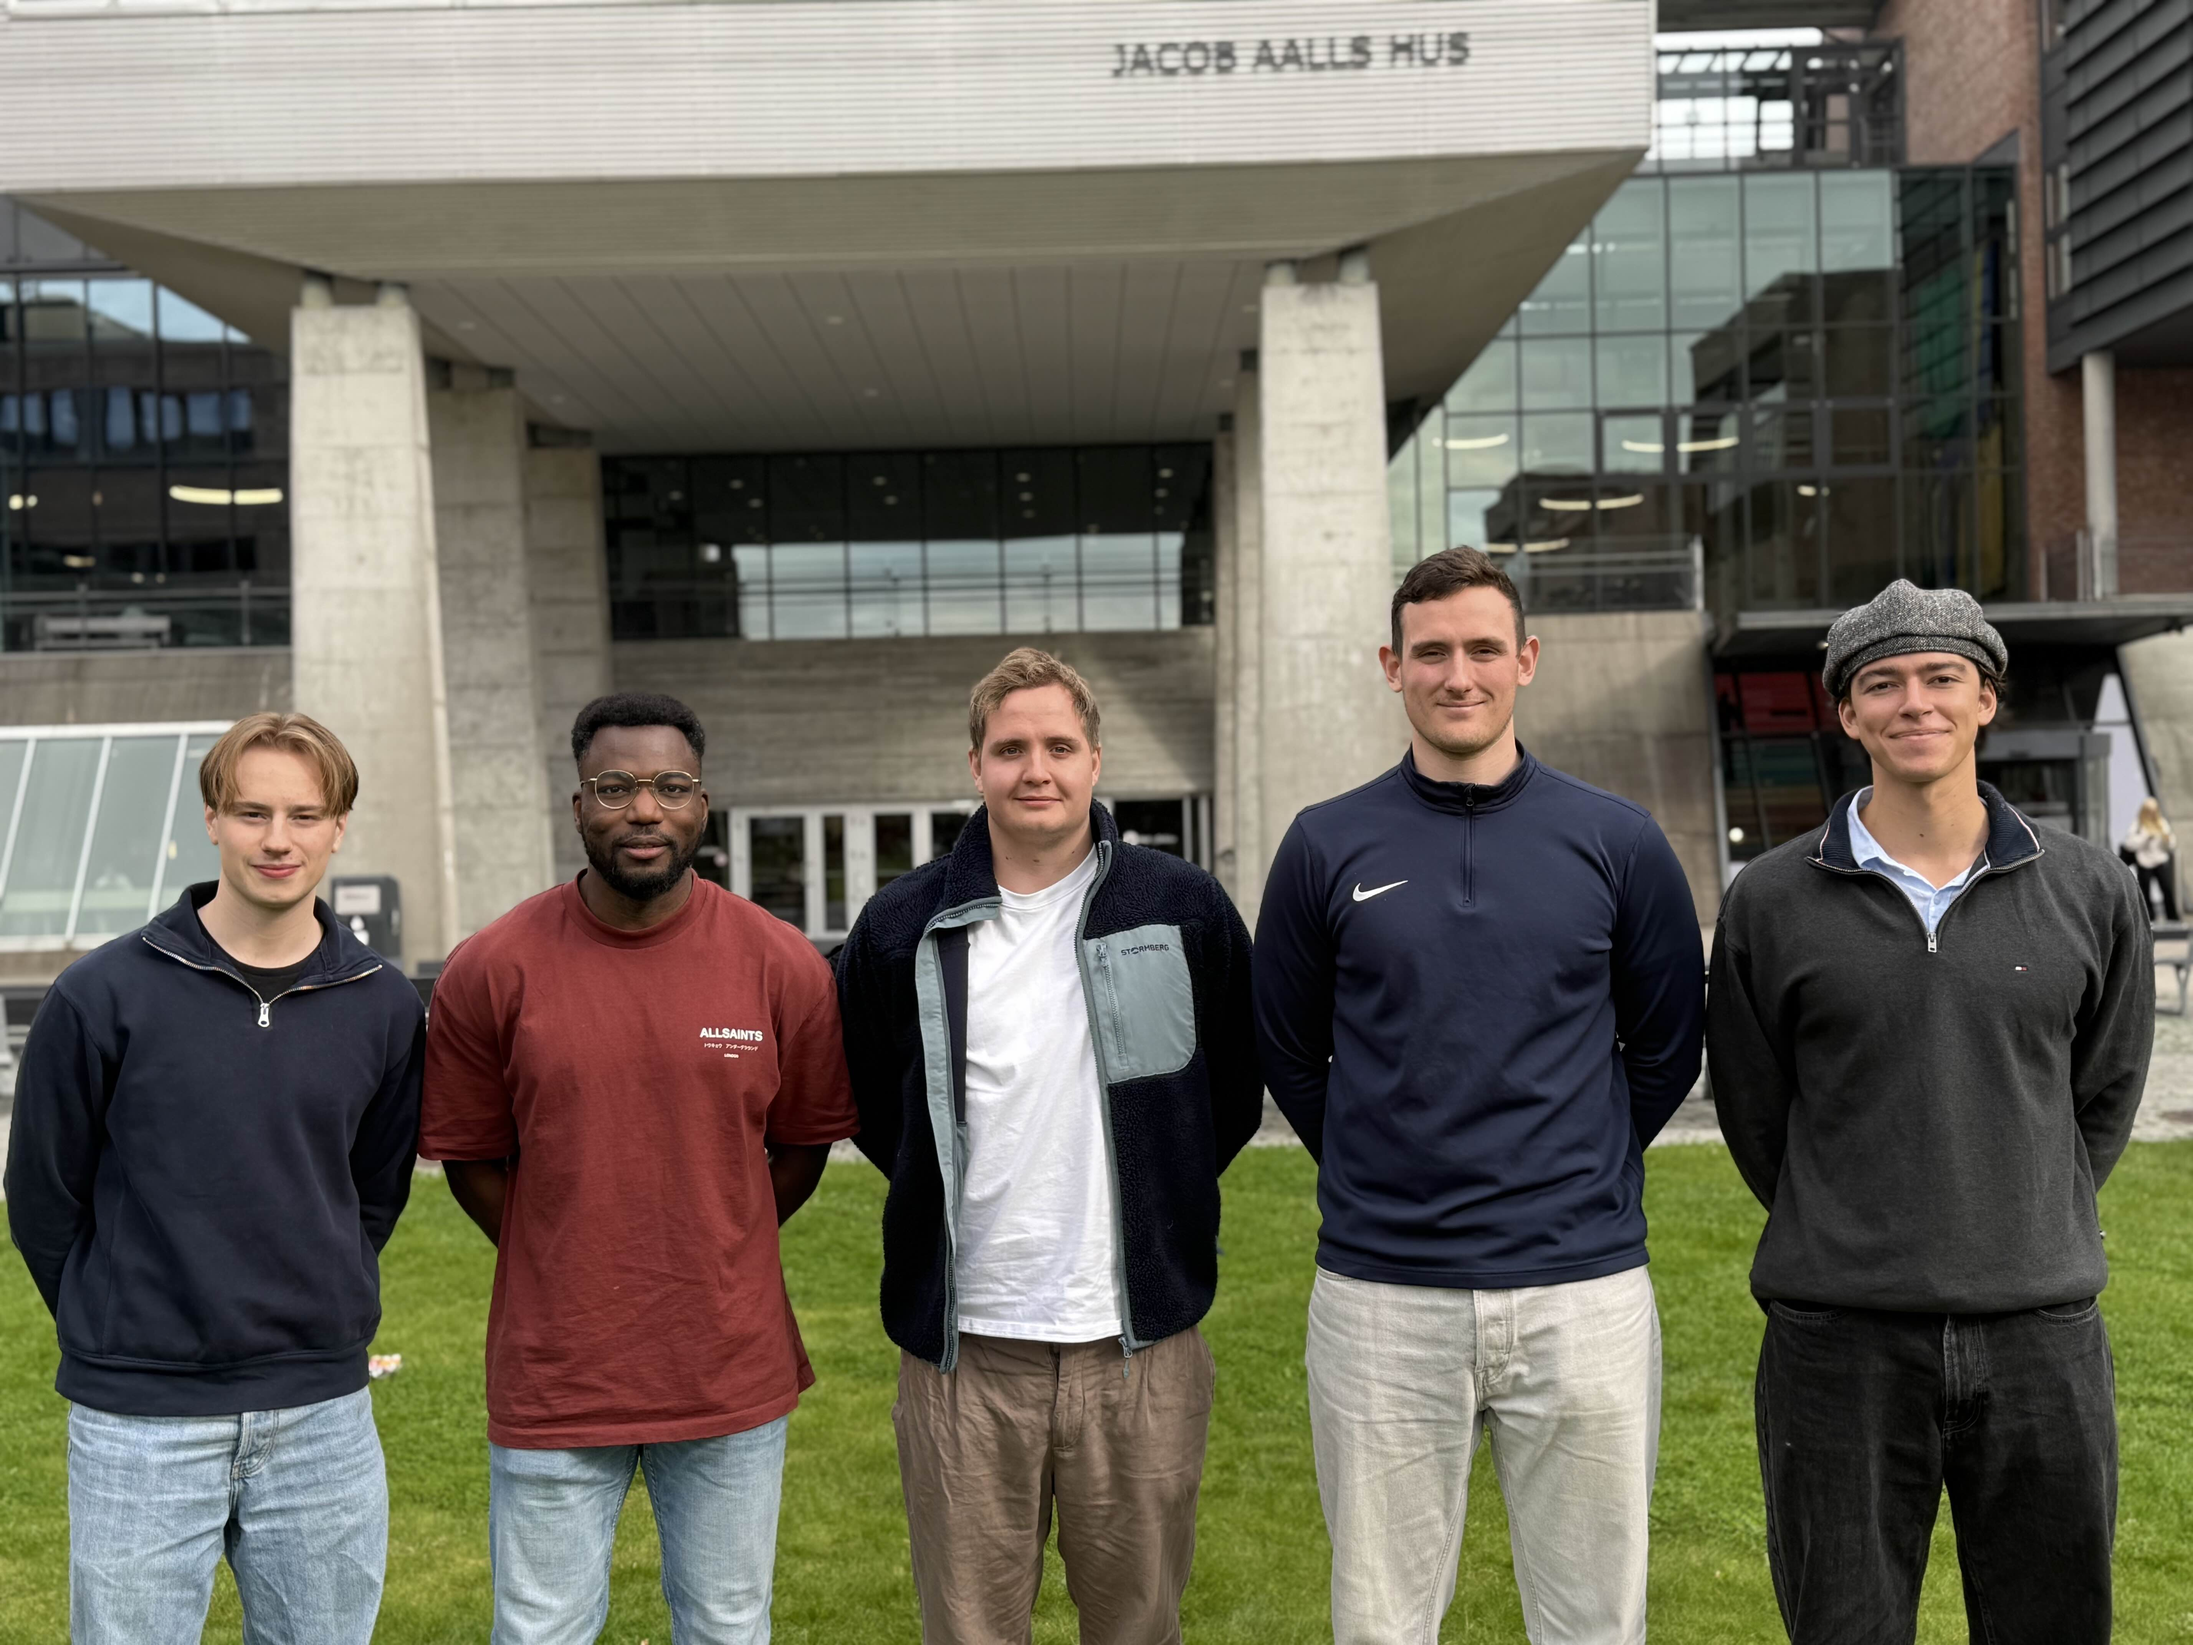
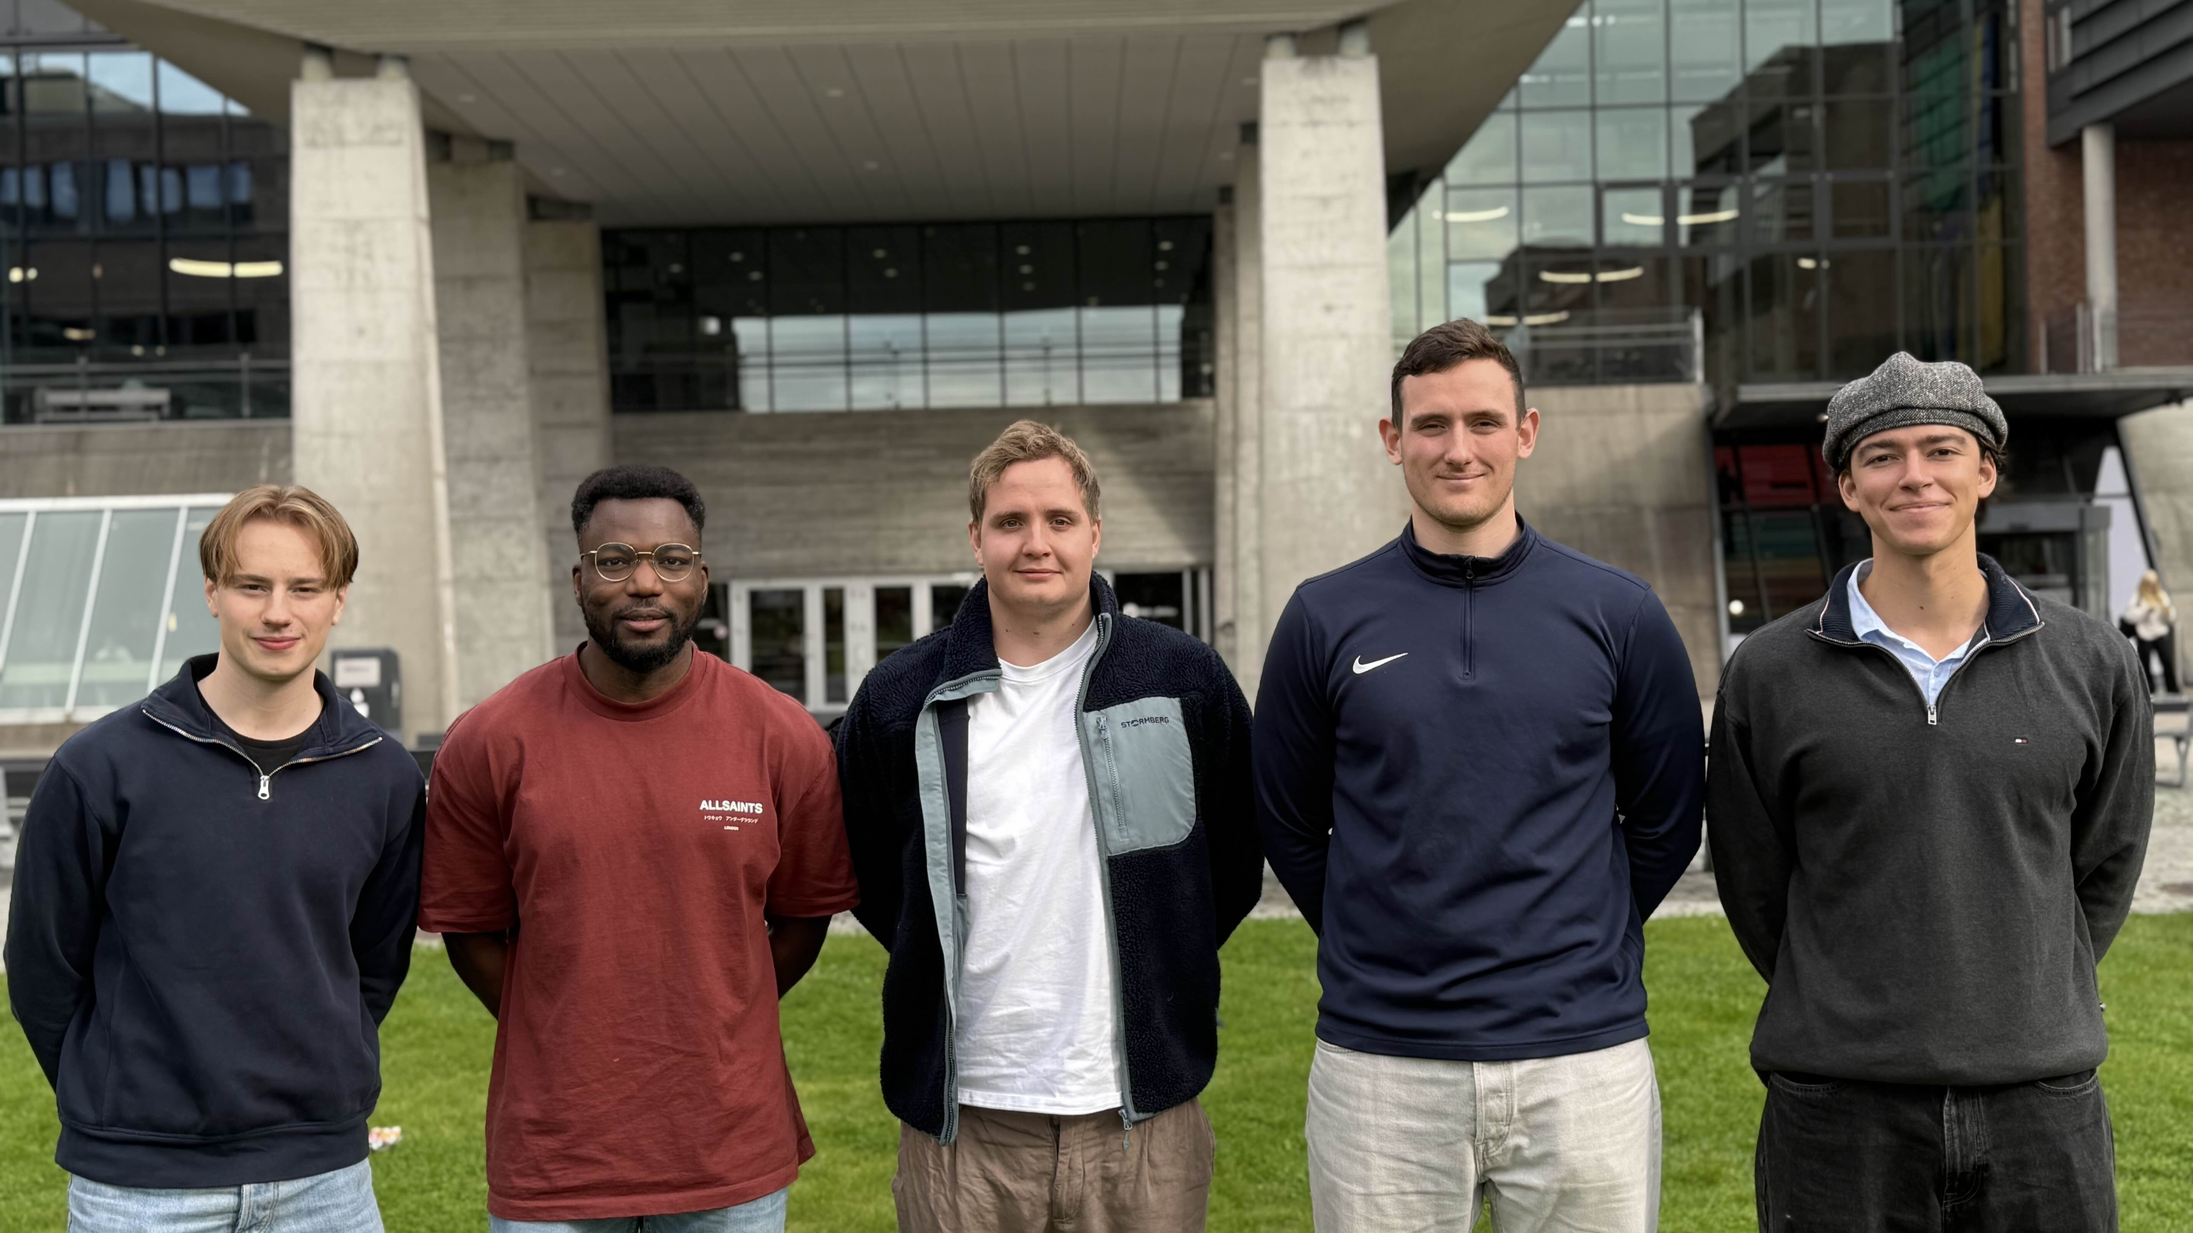
overskrift, bakgrunnsbilde, animasjon og navbar
fikset på ting og tang

diff --git a/docs/index.html b/docs/index.html
@@ -7,6 +7,9 @@
     <link rel="icon" href="image/group-svgrepo-com.svg" type="image/svg+xml" />
     <link rel="stylesheet" href="CSS/site.css"/>
     <link rel="stylesheet" href="CSS/index.css" />
+    <script src="JS/ordAnimasjon.js"></script>
+    <script src="JS/navBar.js"></script>
+    
 </head>
 <body>
 <header></header>
@@ -20,17 +23,14 @@
         <a class="nav-item active" href="#section1">Hjem</a>
         <a class="nav-item" href="#section2">Om oss</a>
         <a class="nav-item" href="#section3">Medlemmer</a>
-        <a class="nav-item" href="Gutta/Contact.html">
-            <img id="phone_symbol" src="image/email_icon.svg" title="Kontakt oss">
-        </a>
+        <a class="nav-item" href="#section4">Prosjekter</a>
+        <a class="nav-item" href="Gutta/Contact.html">Kontakt</a>
     </div>
 </div>
 
 
 <section id=section1>
-    <img title="group_pic" id="group_picture" src="image/gruppe_bilde.jpg" />
         <div class="stor-tekst">
-            <p class="stor-overskrift">VI ER</p>
             <p class="stor-overskrift">GRUPPE 1</p>
         </div>
         
@@ -38,9 +38,17 @@
 
 <section id="section2">
     <div class="overskrifter">
-        <div class="Kreativitet">
+        <div class="ord">
             <h1 class="om-gruppen-overskrift">/Kreativitet.</h1>
             <p>[kreativite:´t] skapende evne eller virksomhet, idérikdom.</p>
+        </div>
+        <div class="ord">
+            <h1 class="om-gruppen-overskrift">/Ambisjon.</h1>
+            <p>[ambiʃo:´n] et mål eller en drøm om hva man ønsker å oppnå.</p>
+        </div>
+        <div class="ord">
+            <h1 class="om-gruppen-overskrift">/Mangfold.</h1>
+            <p>[ma`ŋfål] en stor variasjon eller et sammensatt utvalg av noe.</p>
         </div>
     </div>
     <div class="om-gruppa-del">
@@ -116,8 +124,8 @@
                 <p>Fredrik Schjølberg Husebø</p>
                 <img class="gruppemedlemmer-bilde Mathias-bilde" src="image/freddy.jpg" alt="">
                 <p class="gruppemedlemmer-text-om-hver-person"> Prosjekt leder</p>
-                <p class="gruppemedlemmer-text-om-hver-person">UX-designer</p>
-                <p class="gruppemedlemmer-text-om-hver-person">HTML, CSS, Javascript, PHP, Python</p>
+                <p class="gruppemedlemmer-text-om-hver-person">UX-designer/Frontend</p>
+                <p class="gruppemedlemmer-text-om-hver-person">HTML, CSS, JAVA, PHP, C#, SQL</p>
                 <a href="https://www.linkedin.com/in/fredrik-schj%C3%B8lberg-huseb%C3%B8-7b8407357/">
                     <img class="section3-linkedin"  src="./image/LinkedIn_logo_initials.png.webp" alt="linked in bilde">
                 </a>

diff --git a/docs/CSS/index.css b/docs/CSS/index.css
@@ -26,16 +26,10 @@ section {
   column-width: 100vw;
   background-color: white;
   overflow-y: hidden;
-  /*background-image: url("/docs/image/gruppe_bilde.jpg");*/
-  backgroud-size: 50px 50px;
+  background-image: url('/docs/image/gruppe_bilde.jpg');  
+  background-size: cover;
 }
 
-#group_picture {
-  width: auto;
-  max-width: auto;
-  min-width: auto;
-  height: auto;
-}
 
 .blur {
   height: 2vh;
@@ -57,7 +51,7 @@ section {
 .nav-bar {
   flex: 1;
   display: flex;
-  width: 25vw;
+  width: 32vw;
   justify-content: center;
   align-items: center;
   flex-direction: row;
@@ -76,6 +70,11 @@ section {
   font-family: "Segoe UI";
   border-radius: 100px;
   cursor: pointer;
+}
+
+.nav-item.active {
+  background-color: #e5c70663;
+  color: #e5c806;
 }
 
 .nav-item:hover {
@@ -99,14 +98,15 @@ section {
   font-family: "Work Sans", sans-serif;
   font-weight: 700;
   font-size: 150px;
-  top: 50vh;
+  top: 55vh;
   left: 2vw;
 }
 .stor-overskrift {
   margin-top: -45vh;
   font-size: 110%;
   margin-bottom: 40vh;
-  color: #d5802aff;
+  color: black;
+  background-color: white;
 }
 
 #section2 {
@@ -139,6 +139,7 @@ section {
   font-family: "Work Sans", sans-serif;
   margin: 4%;
   margin-bottom: 0%;
+   overflow: hidden;
 }
 
 .overskrifter h1 {
@@ -147,10 +148,32 @@ section {
   margin: 0;
 }
 
+.ord {
+  position: absolute;
+  top: 2vh;
+  left: 0;
+  opacity: 0;
+  transform: translateX(-100%); 
+  transition: transform 1.0s ease, opacity 1.0s ease;
+  width: 100%;
+}
+
+.ord.show {
+  opacity: 1;
+  transform: translateX(0);
+}
+
+.ord.hide {
+  opacity: 0;
+  transform: translateX(-100%);
+}
+
 .om-gruppa-del {
   margin: 2%;
   margin-top: 0%;
   background-color: white;
+  color: rgb(37, 37, 37);
+  line-height: 1.5;
   border-radius: 20px;
   font-family: "Work Sans", sans-serif;
   flex: 3;
@@ -334,6 +357,12 @@ section {
   background-color: white;
   height: 100%;
   border-radius: 20px;
+  transition: transform 1s ease, clip-path 1s ease;
+}
+
+.prosjekt-box:hover {
+  transform: scale(1.05);
+  z-index: 10;
 }
 
 .prosjekt-bilde{

diff --git a/docs/JS/navBar.js b/docs/JS/navBar.js
@@ -1,0 +1,22 @@
+document.addEventListener("DOMContentLoaded", () => {
+  const sections = document.querySelectorAll("section");
+  const navLinks = document.querySelectorAll(".nav-item");
+
+  const observer = new IntersectionObserver(
+    (entries) => {
+      entries.forEach(entry => {
+        if (entry.isIntersecting) {
+          // remove active from all links
+          navLinks.forEach(link => link.classList.remove("active"));
+          // add active to the matching one
+          const id = entry.target.getAttribute("id");
+          const activeLink = document.querySelector(`.nav-item[href="#${id}"]`);
+          if (activeLink) activeLink.classList.add("active");
+        }
+      });
+    },
+    { threshold: 0.5 } // section is "active" if 50% visible
+  );
+
+  sections.forEach(section => observer.observe(section));
+});

diff --git a/docs/JS/ordAnimasjon.js b/docs/JS/ordAnimasjon.js
@@ -1,0 +1,17 @@
+document.addEventListener('DOMContentLoaded', () => {
+  const items = [...document.querySelectorAll('.ord')];
+  let current = 0;
+  const displayTime = 5000; // hvor lenge ett ord er synlig (ms)
+
+  // start med første
+  items[current].classList.add('show');
+
+  setInterval(() => {
+    // gjeldende bort
+    items[current].classList.remove('show');
+
+    // neste
+    current = (current + 1) % items.length;
+    items[current].classList.add('show');
+  }, displayTime);
+});

diff --git a/docs/Gutta/Fredrik.html b/docs/Gutta/Fredrik.html
@@ -7,6 +7,7 @@
     <link rel="stylesheet" href="../CSS/Fredrik.css">
     <link rel="stylesheet" href="../CSS/index.css">
     <link rel="stylesheet" href="../CSS/site.css">
+    <script src="../JS/ordAnimasjon.js"></script>
 
 </head>
 <body>
